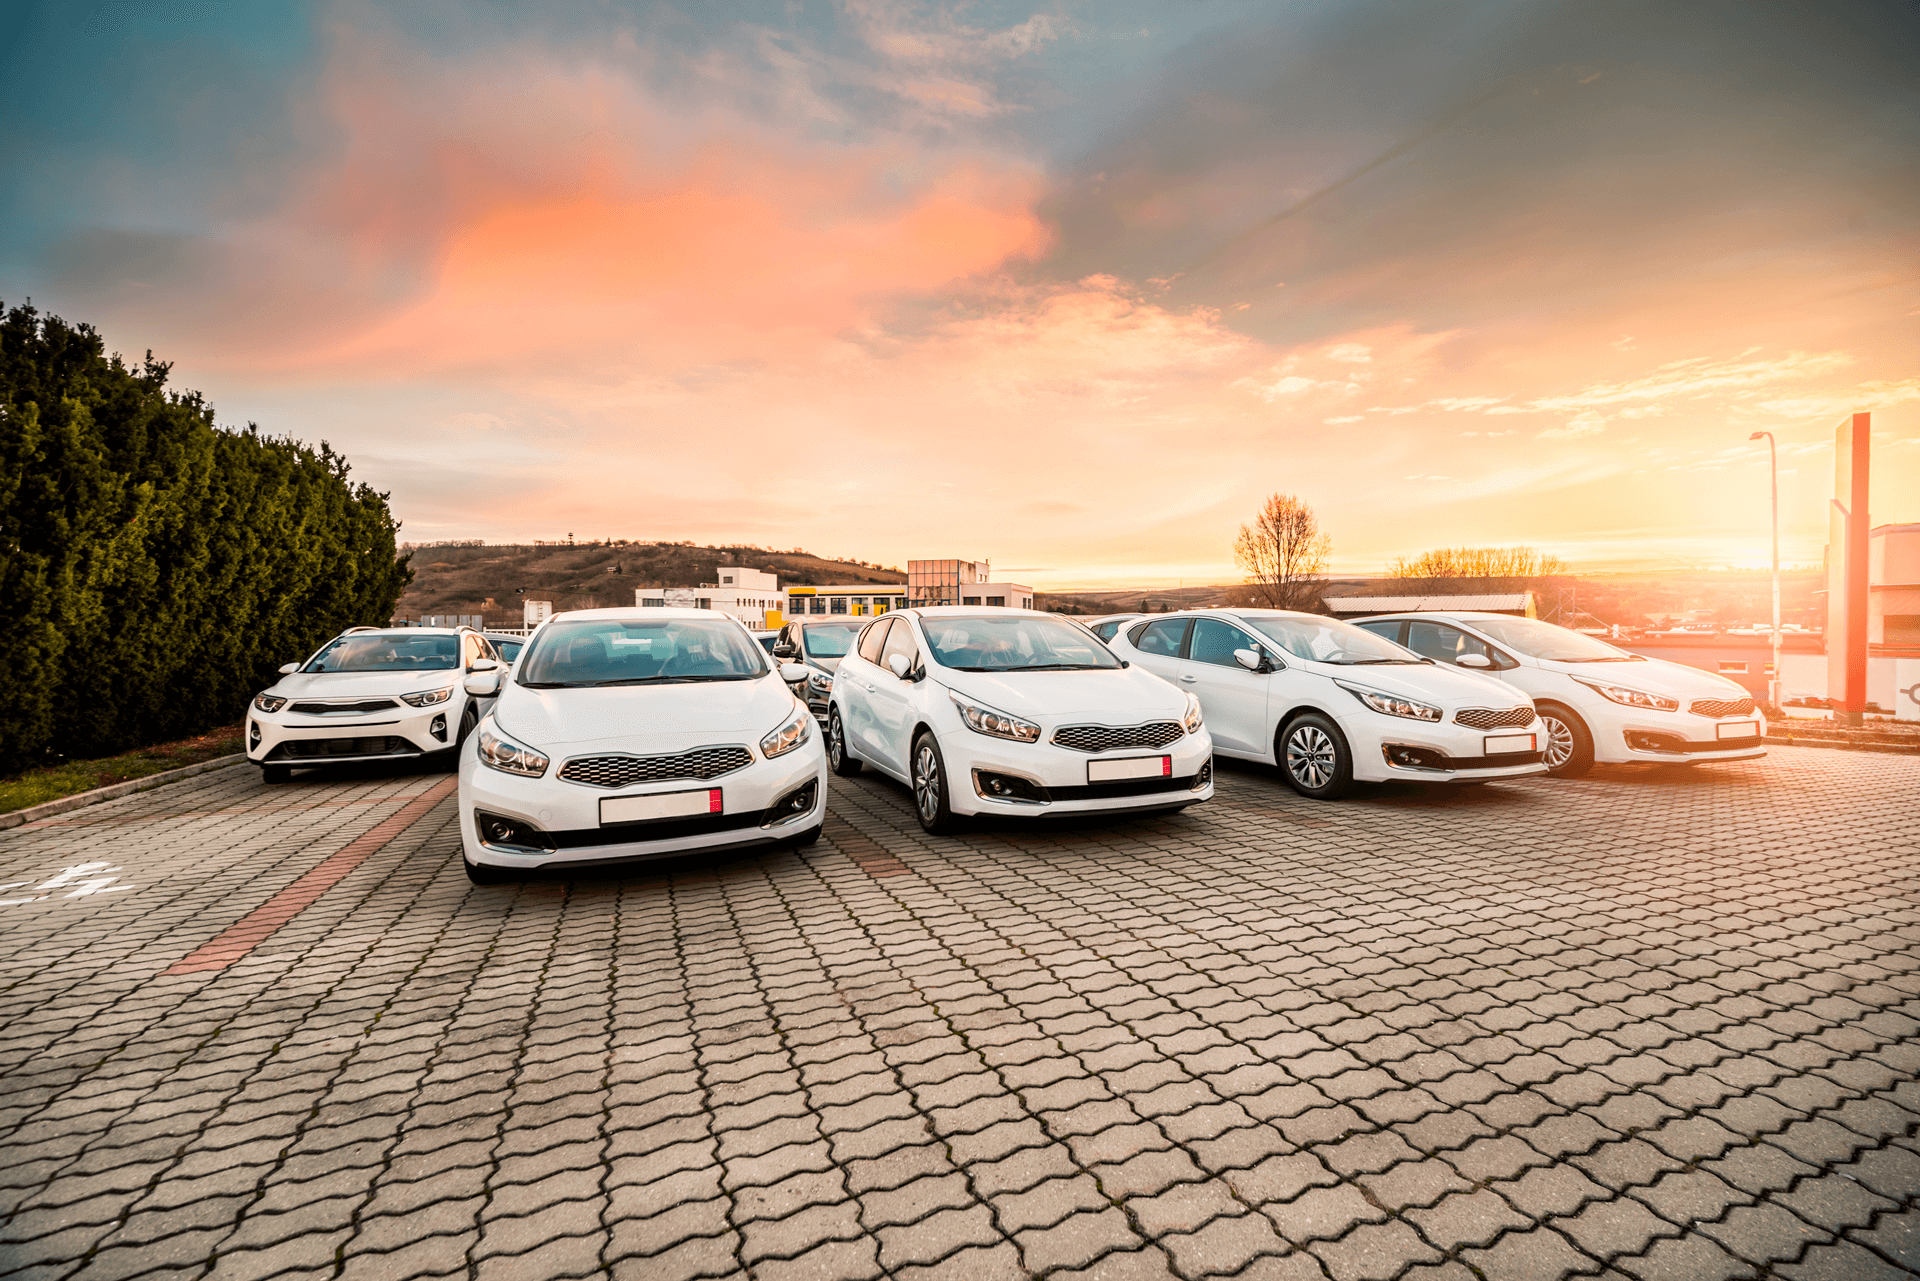
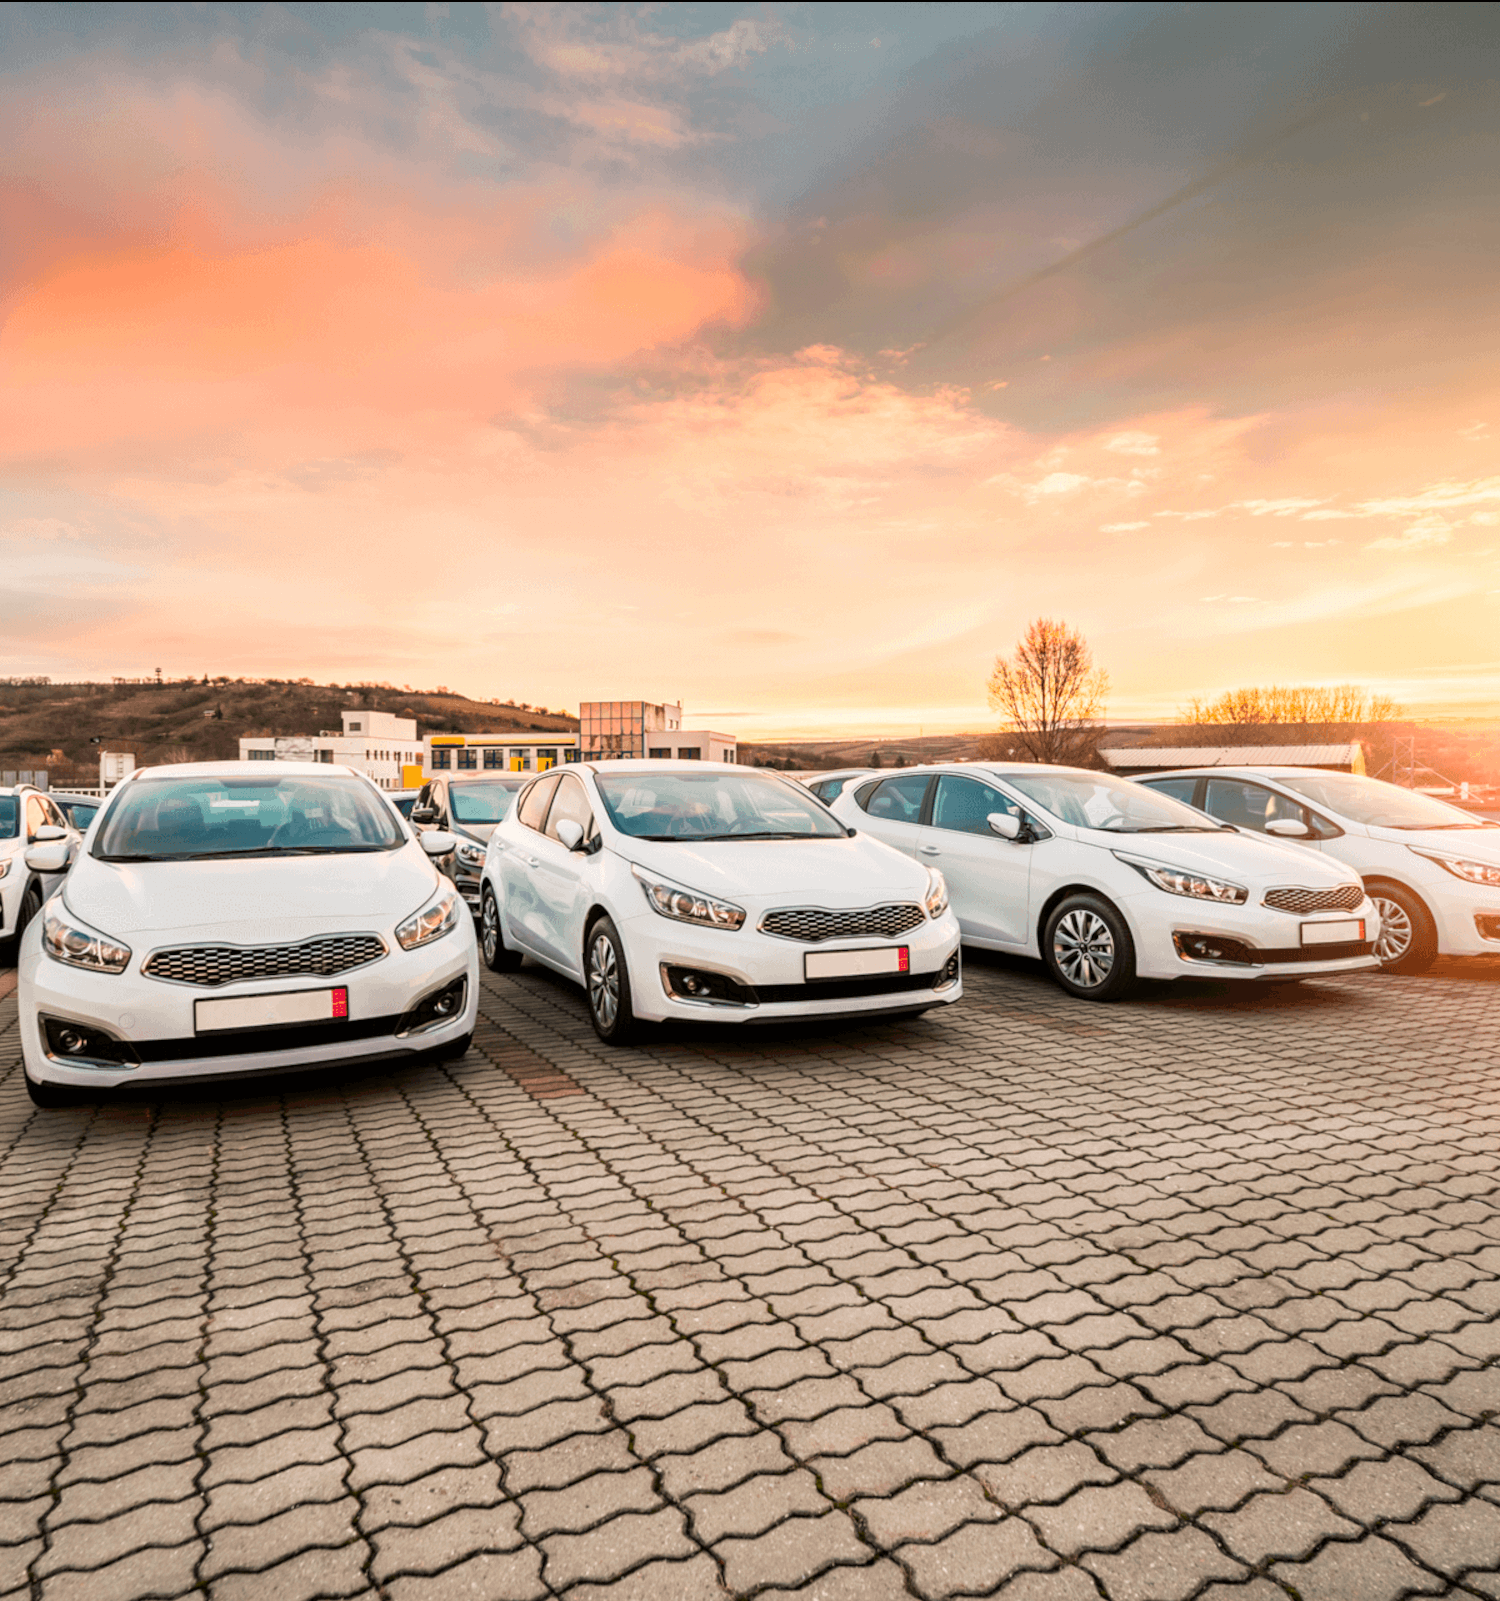
Correção visual no card de login

diff --git a/src/pages/user/logon/index.js b/src/pages/user/logon/index.js
@@ -65,8 +65,7 @@ export default class Logon extends React.Component {
       <section className="form my-4 mx-5">
         <div className="container main-container">
           <div className="row no-gutters">
-            <div className="col-lg-6 col-md-6">
-              <br />
+            <div className="col-lg-6 col-md-6 center">
               <div className="col-lg-12 col-md-10 img">
                 <img alt="dog-banner" src={frotaImage} className="img-fluid" />
               </div>

diff --git a/src/pages/user/logon/styles.css b/src/pages/user/logon/styles.css
@@ -57,3 +57,9 @@
   padding-top: 10px;
 
 }
+
+img{
+  margin: auto;
+  border-top-right-radius: 25px;
+  border-bottom-left-radius: 25px;
+}
